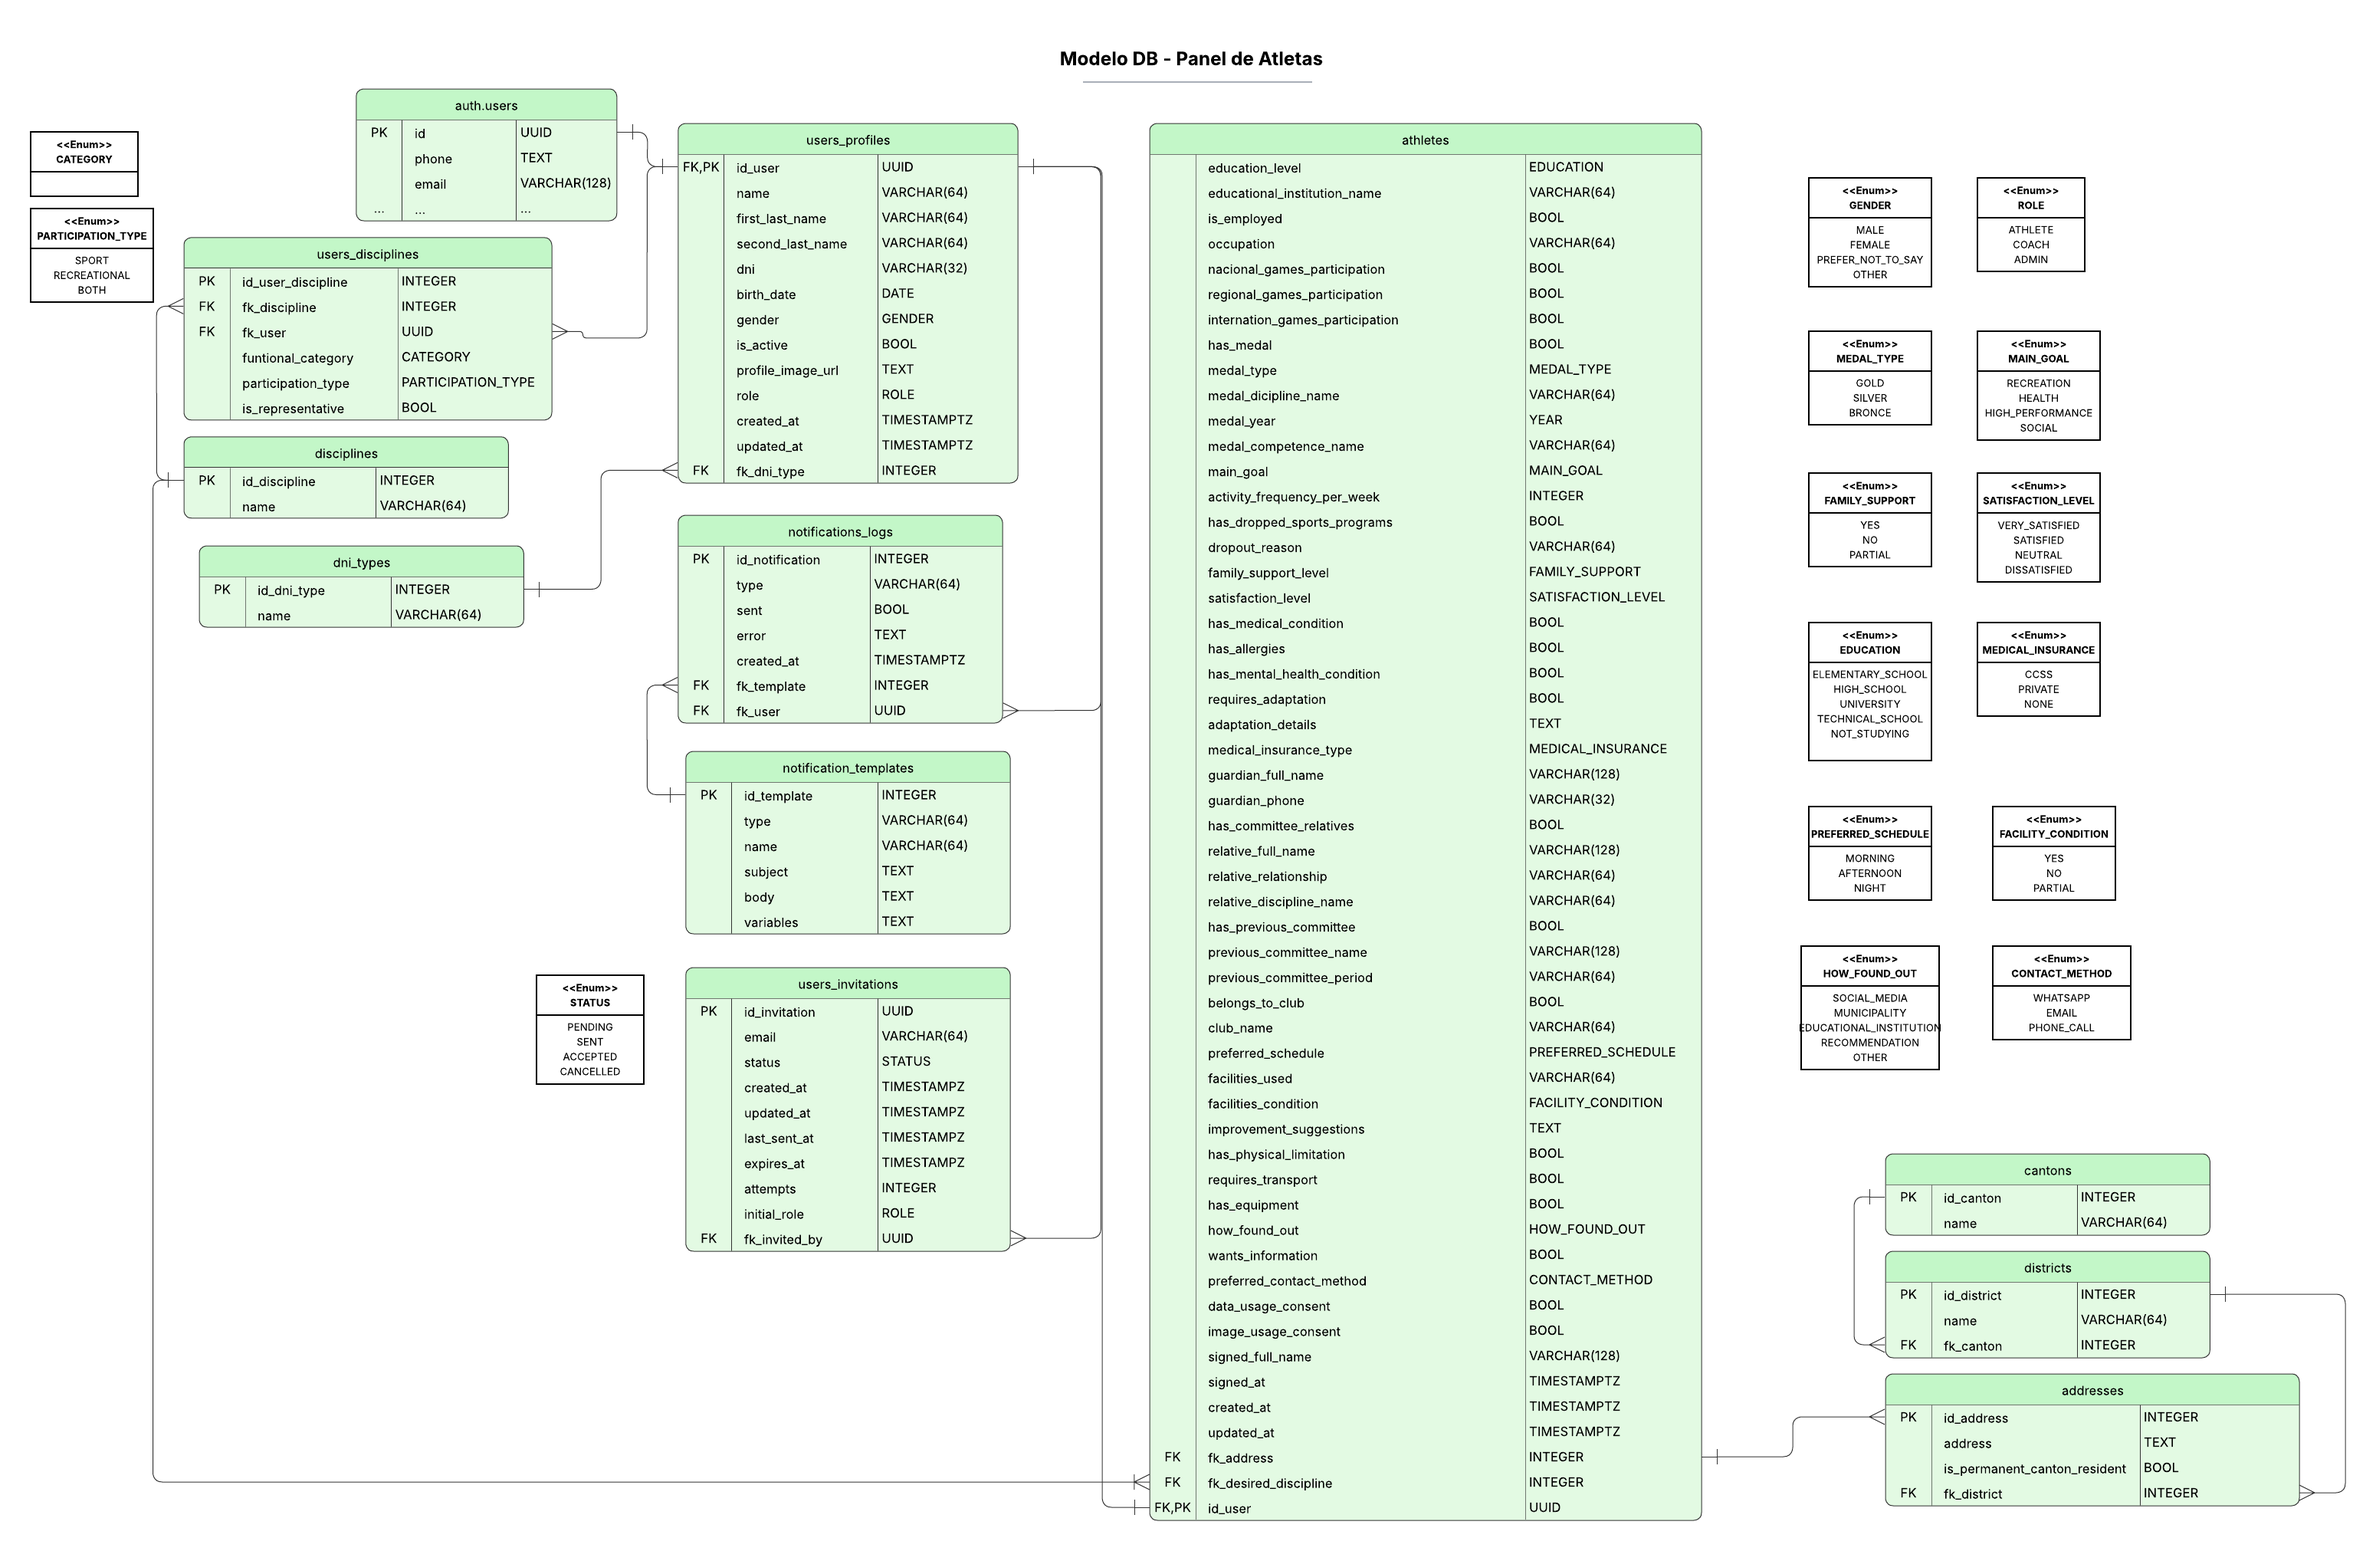
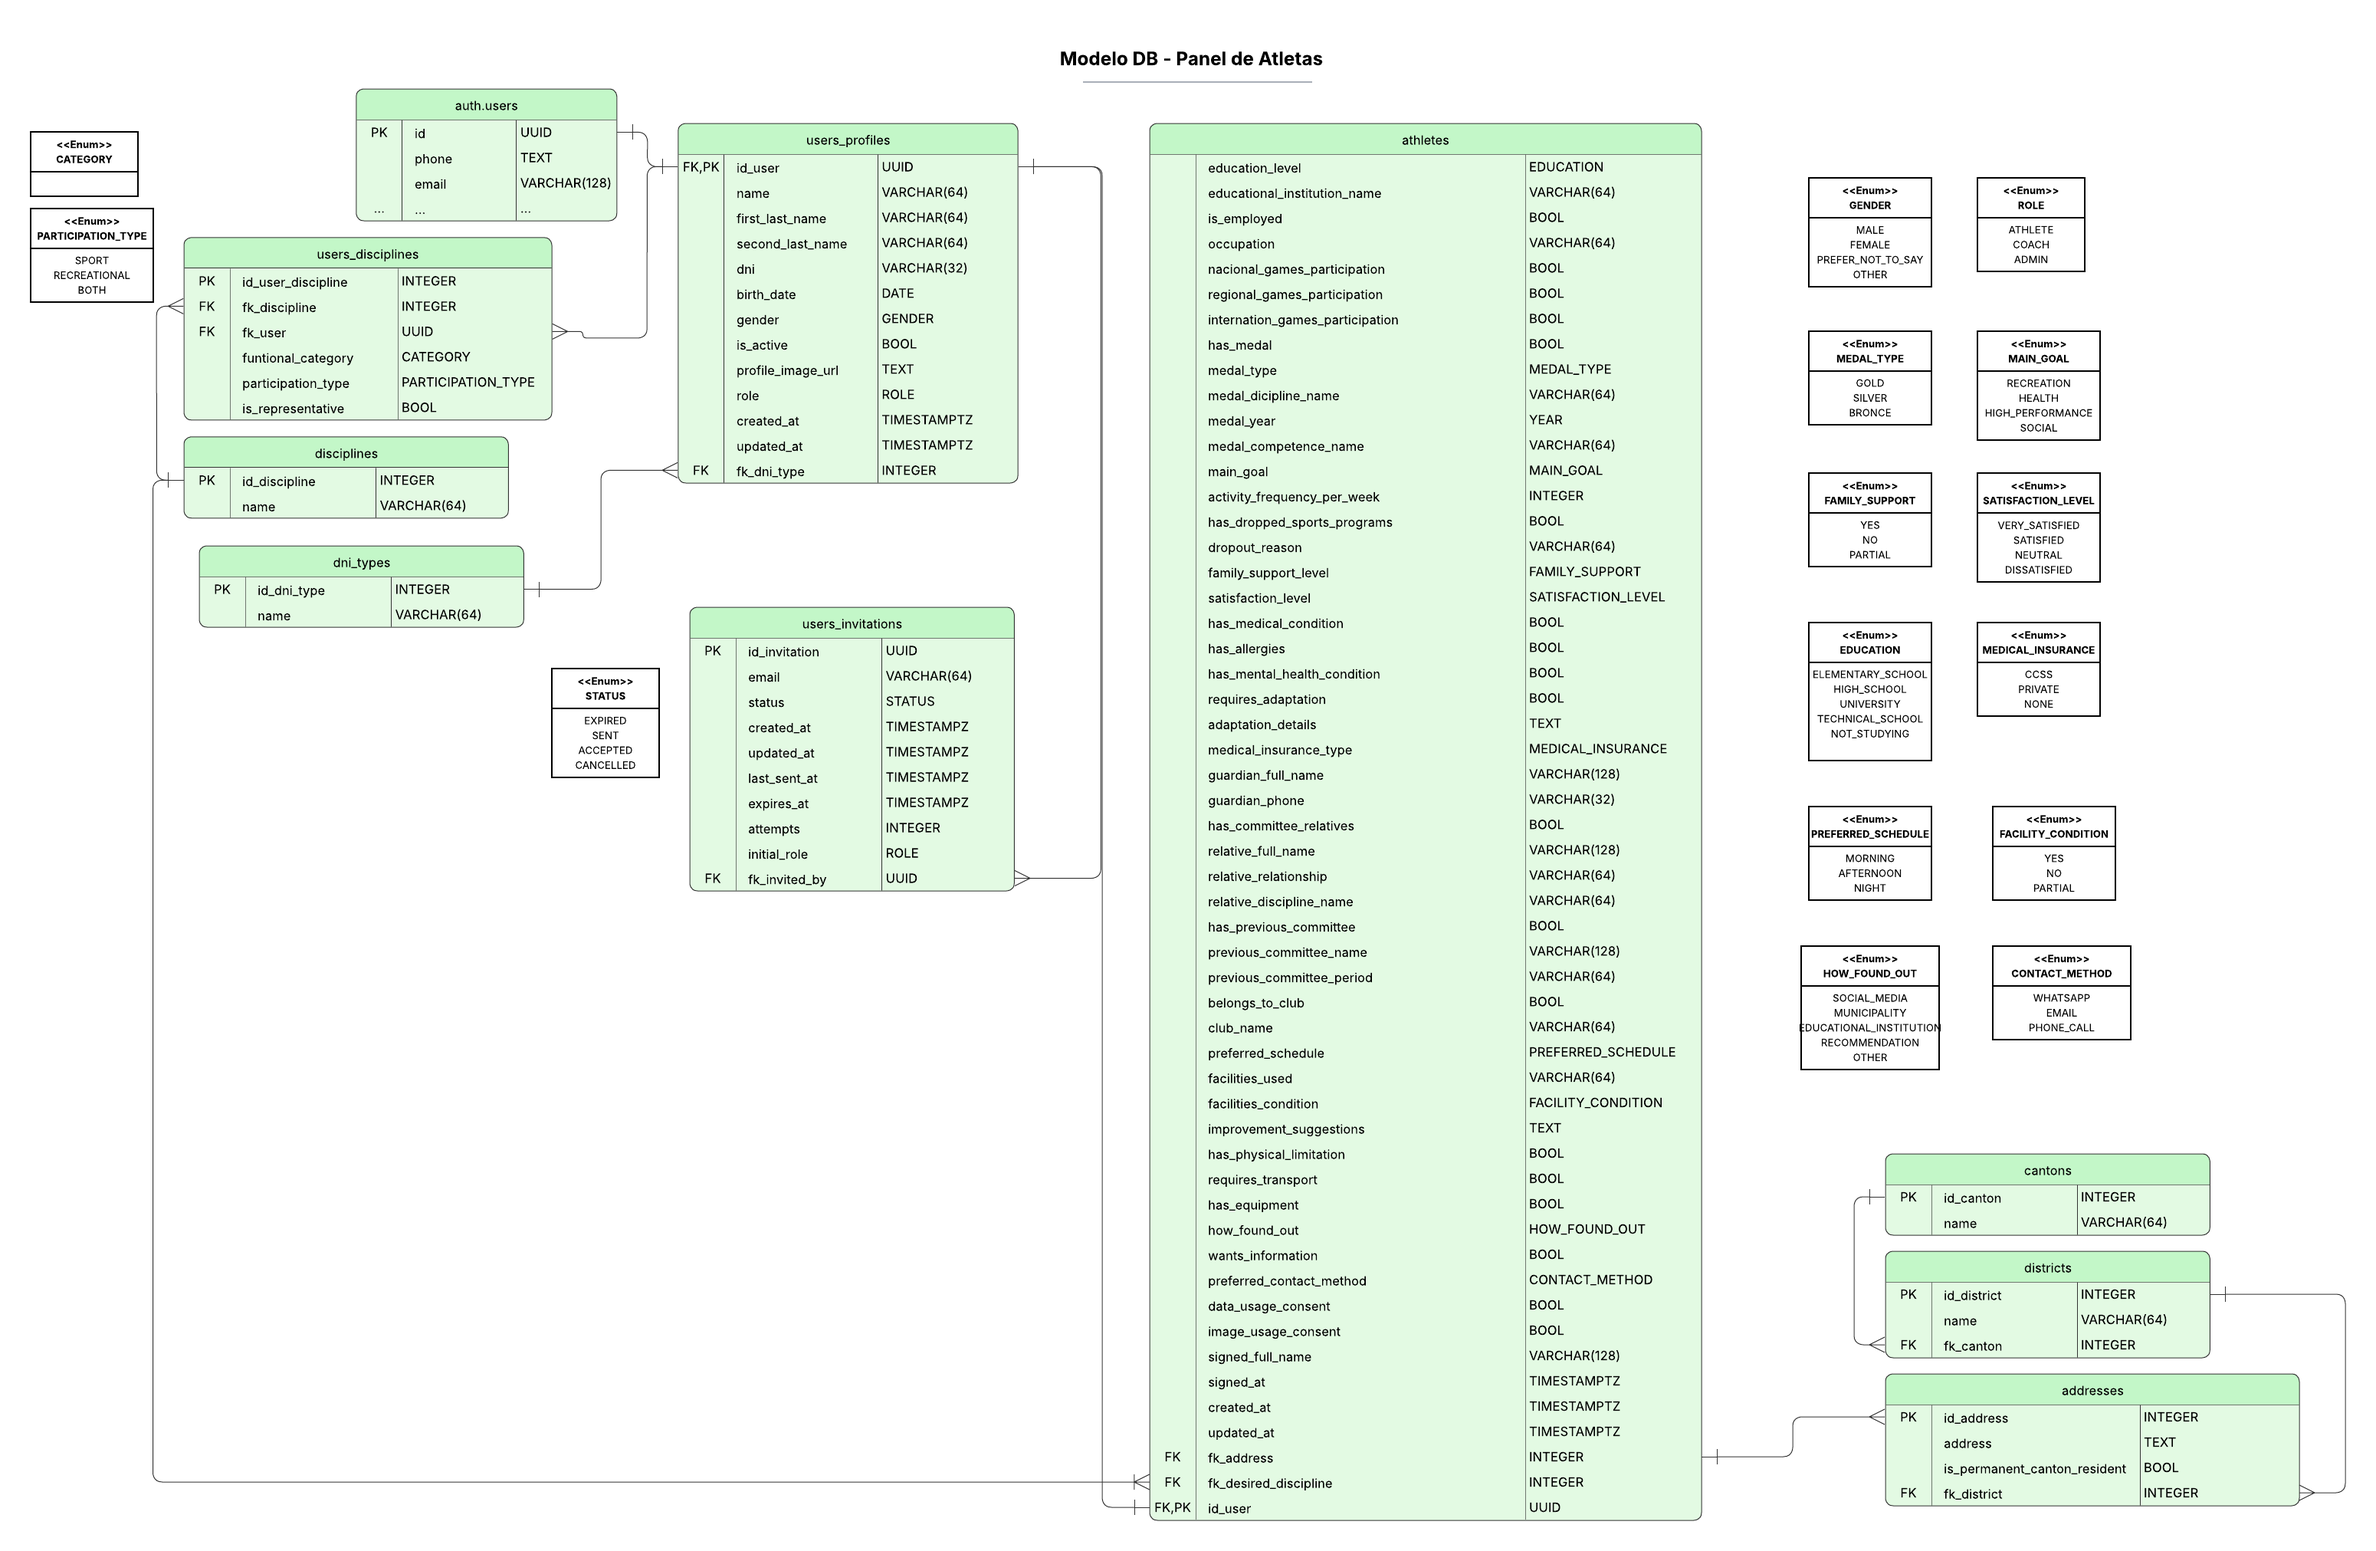
refactor: Streamline email invitation process and remove notification tables
Removes the `notification_templates` and `notifications_logs` tables, their RLS policies, and seed data. This refactors the email invitation mechanism from a database-backed template system to a static HTML file, `email_invite_template.html`.

This change simplifies the database schema and allows for more flexible and visually appealing email designs. The ERD and RLS documentation have been updated accordingly.

Changed region(s): [[0.2168, 0.3114, 0.4335, 0.8097]]

diff --git a/supabase/scripts/email_invite_template.html b/supabase/scripts/email_invite_template.html
@@ -1,0 +1,84 @@
+<!DOCTYPE html>
+<html lang="es">
+<head>
+  <meta charset="UTF-8" />
+  <meta name="viewport" content="width=device-width, initial-scale=1.0" />
+  <title>Invitación - Panel de Atletas del Comité de Montes de Oca</title>
+</head>
+<body style="margin:0;padding:0;background-color:#f4f6f9;font-family:'Segoe UI',Arial,sans-serif;">
+
+  <table width="100%" cellpadding="0" cellspacing="0" style="background-color:#f4f6f9;padding:40px 0;">
+    <tr>
+      <td align="center">
+        <table width="600" cellpadding="0" cellspacing="0" style="background-color:#ffffff;border-radius:12px;overflow:hidden;box-shadow:0 2px 8px rgba(0,0,0,0.08);">
+
+          <!-- HEADER -->
+          <tr>
+            <td style="background-color:#1a1a2e;padding:32px;text-align:center;">
+              <!-- LOGO: reemplaza el src con la URL real cuando esté disponible -->
+              <img
+                src="LOGO_URL_AQUI"
+                alt="Panel Atletas"
+                width="160"
+                style="display:block;margin:0 auto;"
+              />
+            </td>
+          </tr>
+
+          <!-- BODY -->
+          <tr>
+            <td style="padding:48px 40px 32px;">
+              <h1 style="margin:0 0 16px;font-size:24px;color:#1a1a2e;font-weight:700;">
+                Has sido invitado
+              </h1>
+              <p style="margin:0 0 24px;font-size:16px;color:#4a4a6a;line-height:1.6;">
+                Fuiste invitado a registrarte en el <strong>Panel de Atletas del Comité de Montes de Oca</strong>. Haz clic en el botón para completar tu registro y acceder a la plataforma.
+              </p>
+
+              <!-- CTA BUTTON -->
+              <table cellpadding="0" cellspacing="0" style="margin:0 0 32px;">
+                <tr>
+                  <td style="background-color:#e63946;border-radius:8px;">
+                    <a
+                      href="{{ .ConfirmationURL }}"
+                      style="display:inline-block;padding:14px 32px;font-size:16px;font-weight:600;color:#ffffff;text-decoration:none;border-radius:8px;"
+                    >
+                      Aceptar invitación
+                    </a>
+                  </td>
+                </tr>
+              </table>
+
+              <p style="margin:0 0 8px;font-size:14px;color:#8888aa;">
+                O copia este enlace en tu navegador:
+              </p>
+              <p style="margin:0;font-size:13px;color:#4a4a6a;word-break:break-all;">
+                {{ .ConfirmationURL }}
+              </p>
+            </td>
+          </tr>
+
+          <!-- DIVIDER -->
+          <tr>
+            <td style="padding:0 40px;">
+              <hr style="border:none;border-top:1px solid #ebebf5;margin:0;" />
+            </td>
+          </tr>
+
+          <!-- FOOTER -->
+          <tr>
+            <td style="padding:24px 40px;text-align:center;">
+              <p style="margin:0;font-size:12px;color:#aaaacc;line-height:1.6;">
+                Este enlace expira en 7 días. Si no esperabas este correo, puedes ignorarlo.<br/>
+                &copy; 2025 Panel de Atletas del Comité de Montes de Oca. Todos los derechos reservados.
+              </p>
+            </td>
+          </tr>
+
+        </table>
+      </td>
+    </tr>
+  </table>
+
+</body>
+</html>

diff --git a/supabase/docs/RLS_POLICIES.md b/supabase/docs/RLS_POLICIES.md
@@ -104,26 +104,6 @@ Users have full self-service control over their own discipline registrations. Ad
 
 ---
 
-### `notification_templates`
-
-| Operation | Who | Condition |
-|-----------|-----|-----------|
-| ALL | Admin | `is_admin()` |
-
-Restricted to admins only. No user-facing access.
-
----
-
-### `notifications_logs`
-
-| Operation | Who | Condition |
-|-----------|-----|-----------|
-| ALL | Admin | `is_admin()` |
-
-Restricted to admins only. No user-facing access.
-
----
-
 ### `users_invitations`
 
 | Operation | Who | Condition |
